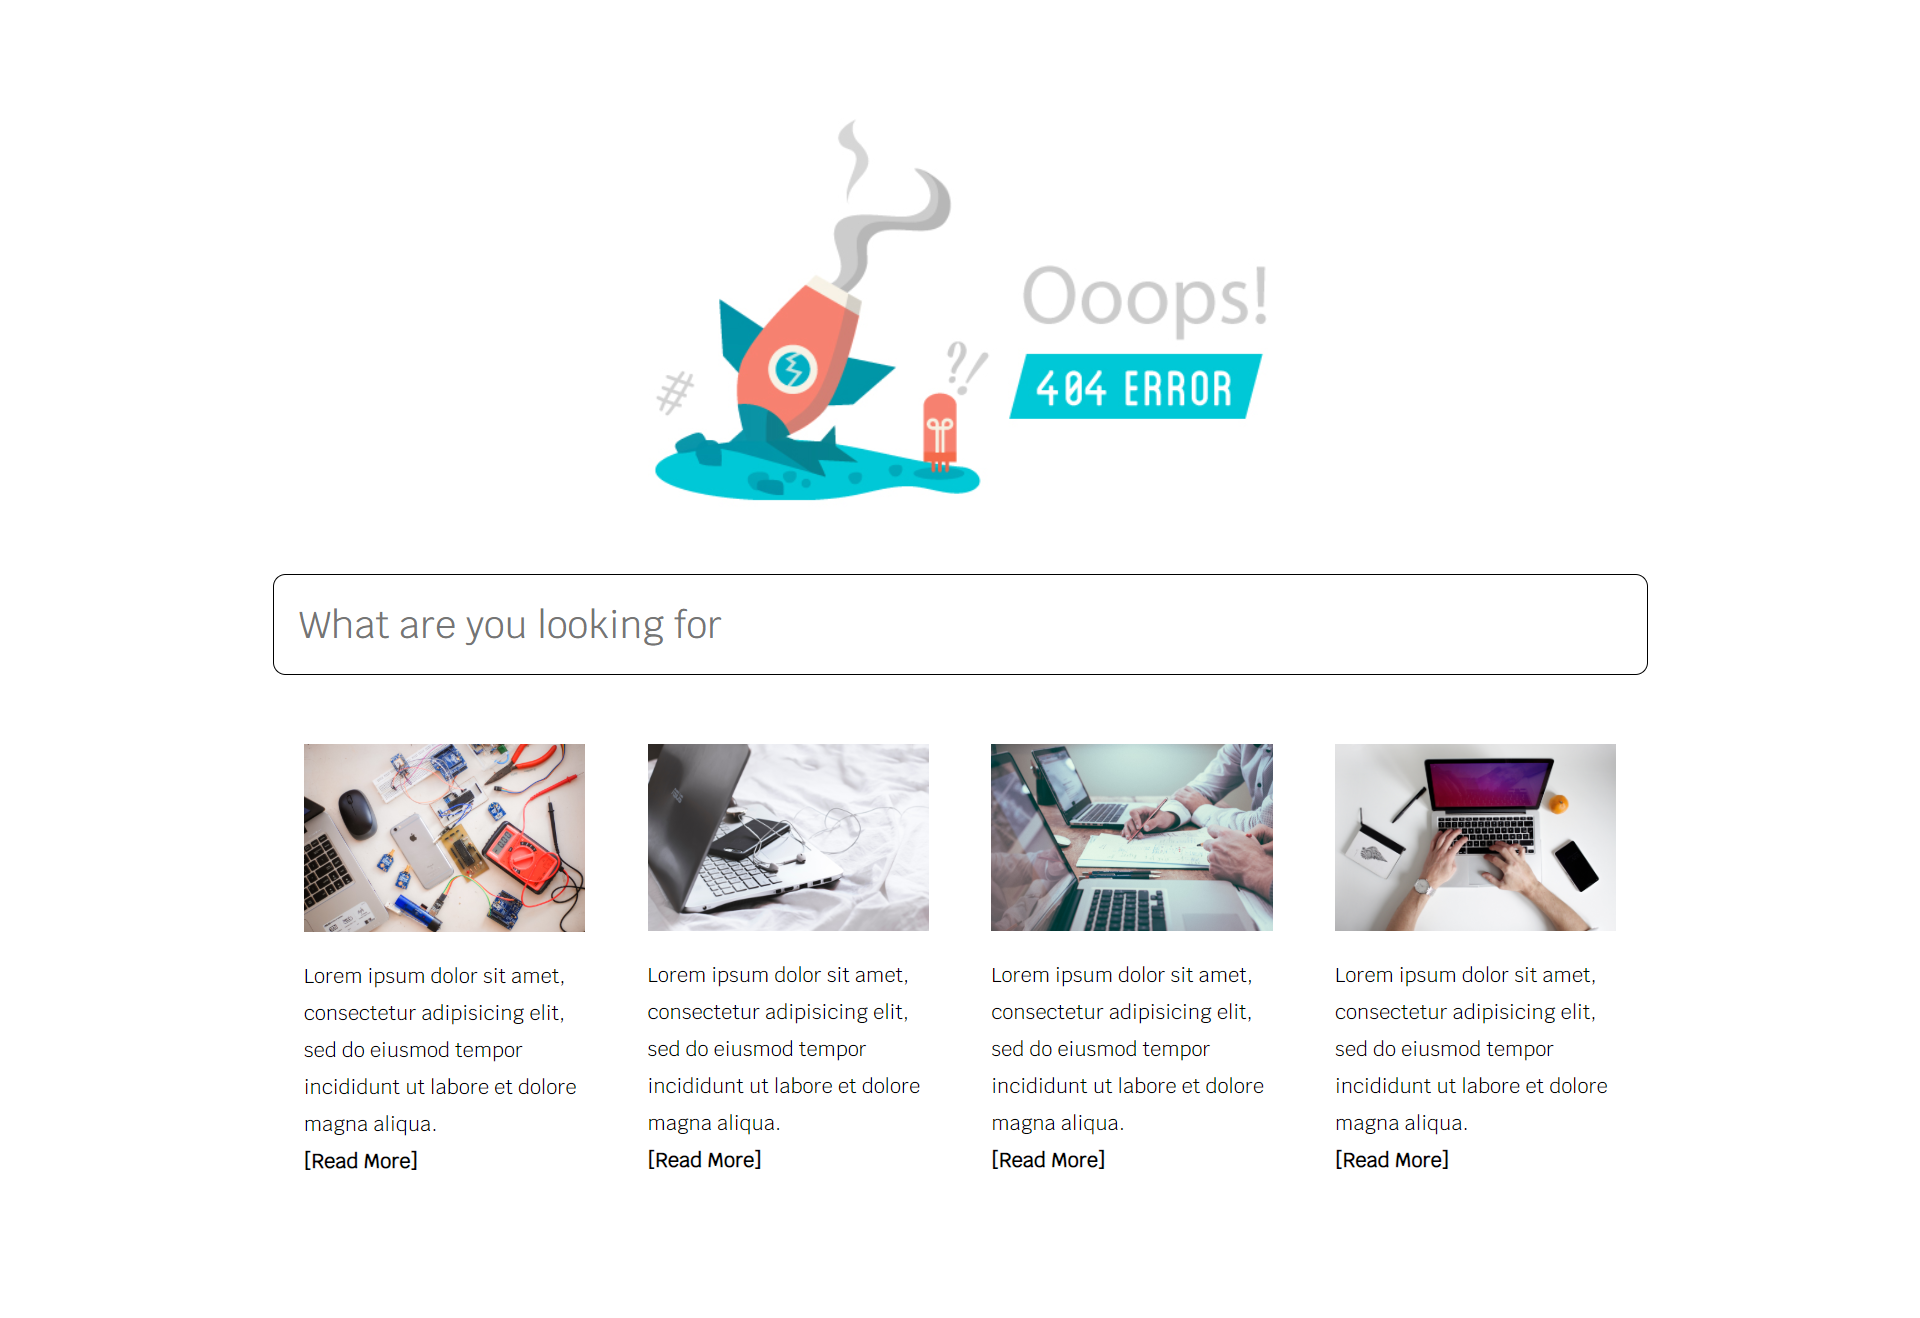
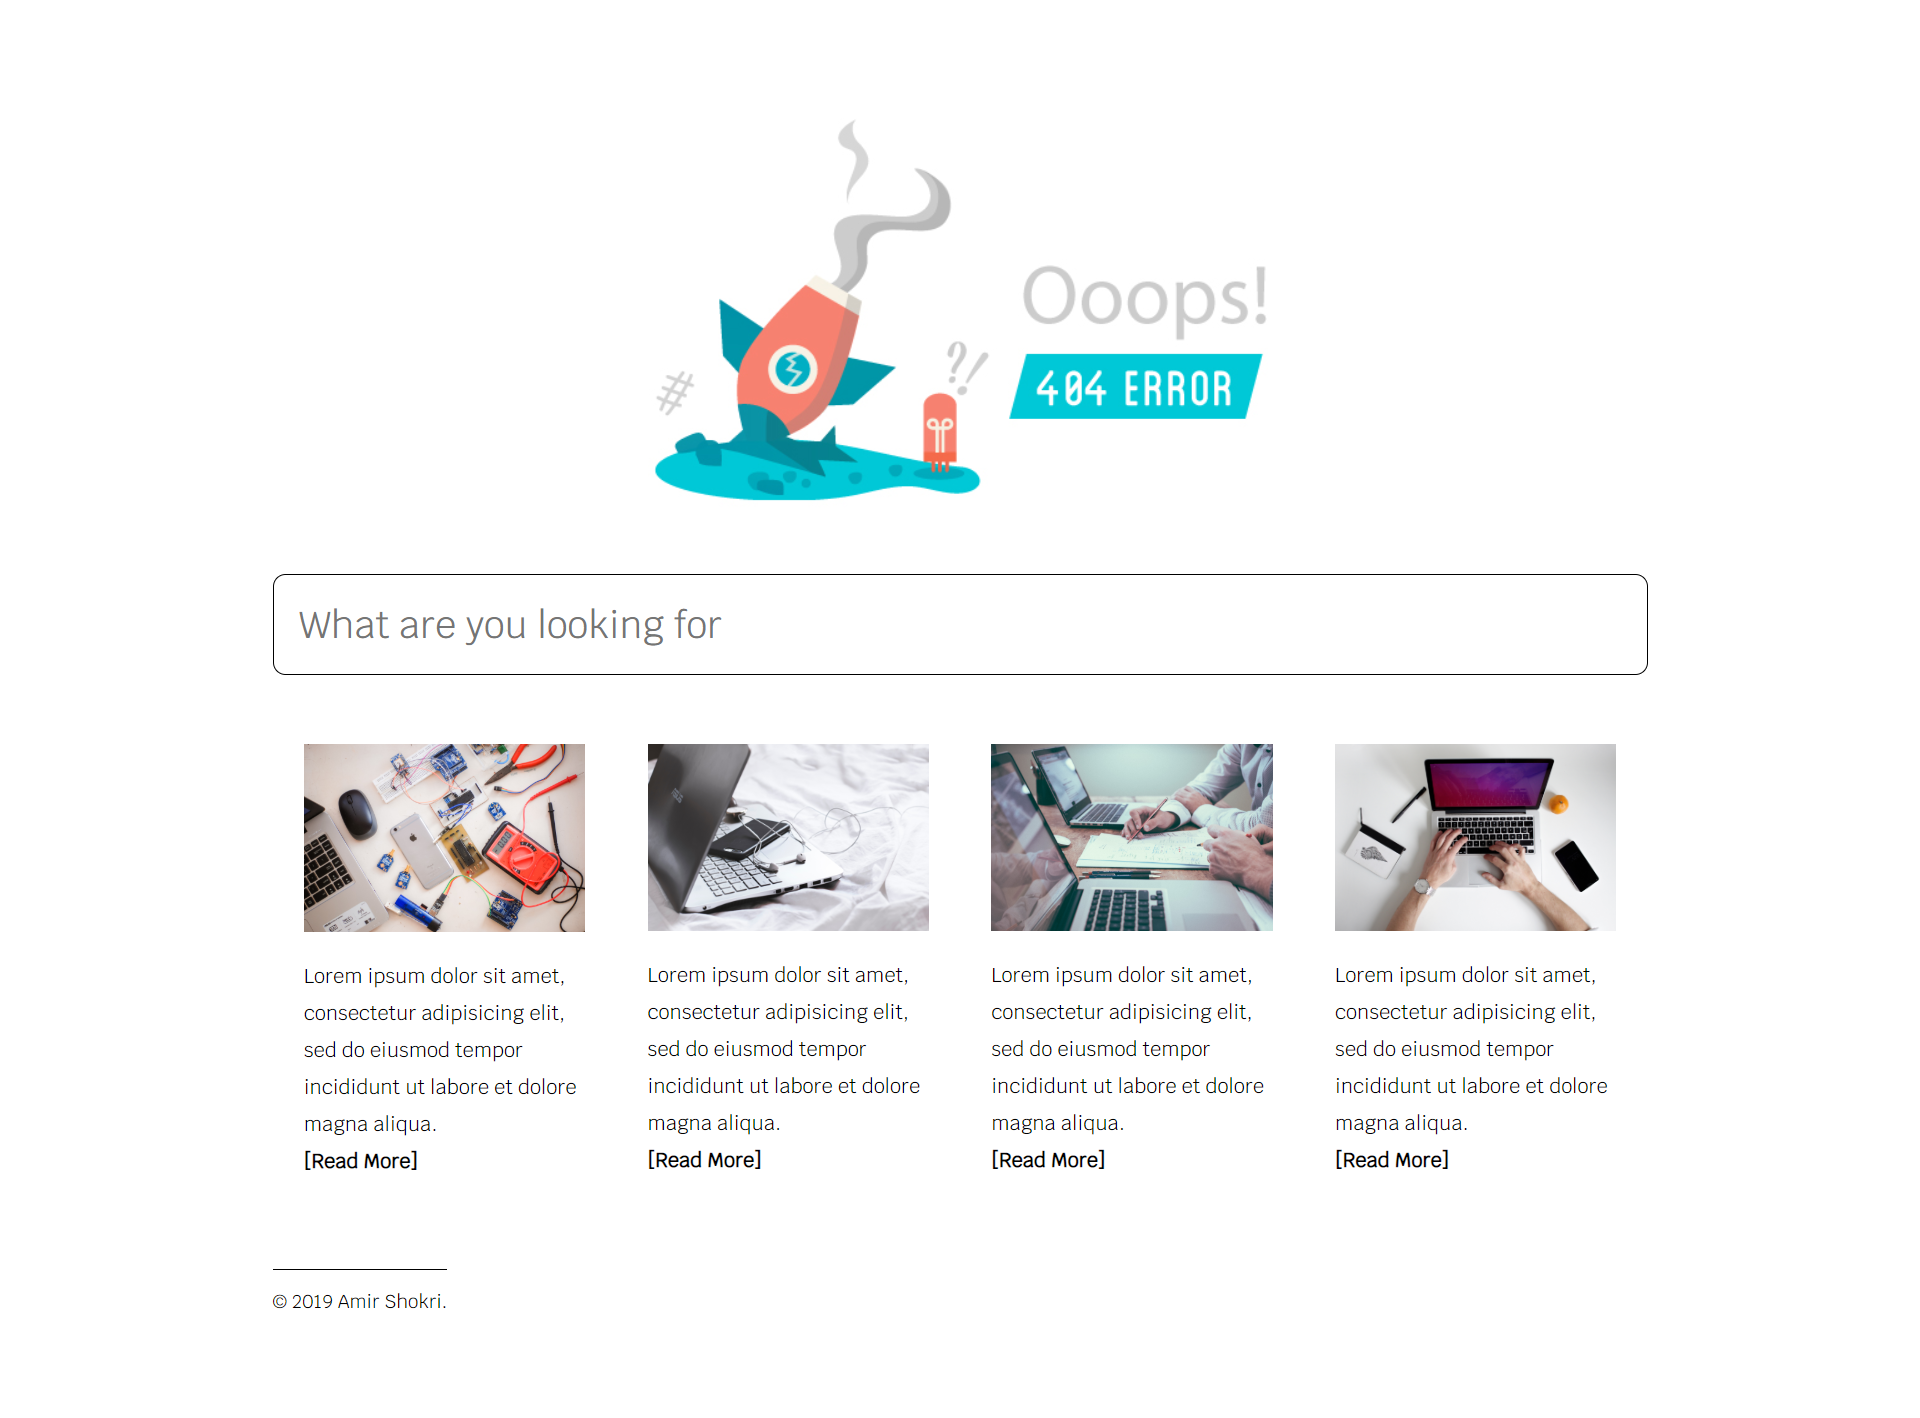
commit #23 (finish 010)
finish 010 social share
and edit some files old challenge day

Changed region(s): [[0.1562, 0.4355, 0.8438, 0.9332], [0.3438, 0.0933, 0.6562, 0.4044]]

diff --git a/010_social_share.html b/010_social_share.html
@@ -16,6 +16,47 @@
 		<!-- Page Content -->
 		<div class="container">
 
+			<div class="social-box row">
+				<div class="col-5 m-auto">
+
+					<div class="black-empty-border"></div>
+
+					<div class="social-share-button facebook col-12">
+						<div class="float-left col-2 text-center"><span class="fab fa-1x fa-facebook text-light"></span></div>
+						<div class="float-right col-10 text-light">Share</div>
+						<div class="clearfix"></div>
+					</div>
+
+					<div class="social-share-button instagram">
+						<div class="float-left col-2 text-center"><span class="fab fa-1x fa-instagram text-light"></span></div>
+						<div class="float-right col-10 text-light">Post</div>
+						<div class="clearfix"></div>
+					</div>
+
+					<div class="social-share-button twitter">
+						<div class="float-left col-2 text-center"><span class="fab fa-1x fa-twitter text-light"></span></div>
+						<div class="float-right col-10 text-light">Tweet</div>
+						<div class="clearfix"></div>
+					</div>
+
+					<div class="social-share-button telegram">
+						<div class="float-left col-2 text-center"><span class="fab fa-1x fa-telegram text-light"></span></div>
+						<div class="float-right col-10 text-light">Send Message</div>
+						<div class="clearfix"></div>
+					</div>
+
+					<div class="social-share-button linkedin">
+						<div class="float-left col-2 text-center"><span class="fab fa-1x fa-linkedin text-light"></span></div>
+						<div class="float-right col-10 text-light">Post</div>
+						<div class="clearfix"></div>
+					</div>
+
+					<div class="copyright text-center">
+						<p class="display-1-2">&copy; 2019 Amir Shokri.</p>
+					</div>
+
+				</div>
+			</div>
 
 		</div>
 

diff --git a/assets/css/layout.css b/assets/css/layout.css
@@ -465,6 +465,10 @@ div {
 .ui-008 .image-box .col-3 p {
 	line-height: 30px;
 }
+.ui-008 .copyright {
+	border-top: 1px solid #000;
+	margin-top: 30px;
+}
 
 
 /* UI-009 */
@@ -475,7 +479,7 @@ div {
 	padding: 0;
 }
 .ui-009 .music-player {
-	margin: 100px auto;
+	margin: 100px auto 0 auto;
 	min-height: 400px;
 	padding: 50px;
 	box-sizing: border-box;
@@ -510,12 +514,48 @@ div {
 	height: 65px;
 	box-shadow: 0 0 5px #bdc3c7;
 }
+.ui-009 .copyright {
+	margin-bottom: 100px;
+}
 
 
 /* UI-010 */
-.ui-009 {
+.ui-010 {
 	width: 100%;
 	height: 100%;
 	margin : 0;
 	padding: 0;
+}
+.ui-010 .social-box {
+	margin: 100px 0;
+}
+.ui-010 .social-box .social-share-button {
+	margin-bottom: 50px;
+	border-radius: 20px;
+	padding: 20px;
+	cursor: pointer;
+	box-shadow: 0 0 20px #555;
+}
+.ui-010 .social-box .facebook {
+	background-color: #3b5998;
+}
+.ui-010 .social-box .instagram {
+	background-color: #c13584
+}
+.ui-010 .social-box .twitter {
+	background-color: #1da1f2;
+}
+.ui-010 .social-box .telegram {
+	background-color: #0088cc;
+}
+.ui-010 .social-box .linkedin {
+	background-color: #0077b5;
+}
+.ui-010 .copyright {
+	margin-top: 70px;
+	border-top: 1px solid #000;
+}
+.ui-010 .black-empty-border {
+	border-top: 1px solid #000;
+	margin-bottom: 70px;
 }

diff --git a/index.html b/index.html
@@ -41,7 +41,7 @@
 						<li><a href="007_settings.html" title="Daily UI 007">7. Settings</a></li>
 						<li><a href="008_404_page.html" title="Daily UI 008">8. 404 page</a></li>
 						<li><a href="009_music_player.html" title="Daily UI 009">9. Music Player</a></li>
-						<li><a href="#" title="Daily UI 010">10. Social Share</a></li>
+						<li><a href="010_social_share.html" title="Daily UI 010">10. Social Share</a></li>
 						<li><a href="#" title="Daily UI 011">11. Flash Message</a></li>
 						<li><a href="#" title="Daily UI 012">12. E-Commerce Shop</a></li>
 						<li><a href="#" title="Daily UI 013">13. Direct Messaging</a></li>

diff --git a/008_404_page.html b/008_404_page.html
@@ -59,6 +59,11 @@
 					</a>
 				</div>
 				<div class="clearfix"></div>
+
+				<div class="copyright d-inline-block">
+					<p class="display-1-2">&copy; 2019 Amir Shokri.</p>
+				</div>
+
 			</div>
 
 		</div>

diff --git a/009_music_player.html b/009_music_player.html
@@ -59,6 +59,11 @@
 					</div>
 
 				</div>
+
+				<div class="copyright d-inline-block">
+						<p class="display-1-2">&copy; 2019 Amir Shokri.</p>
+					</div>
+				
 			</div>
 
 		</div>

diff --git a/README.md b/README.md
@@ -23,7 +23,7 @@ Daily Ui Challenge (100)
 7. Settings							✓
 8. 404 page 						✓
 9. Music Player						✓
-10. Social Share
+10. Social Share					✓
 11. Flash Message
 12. E-Commerce Shop
 13. Direct Messaging
